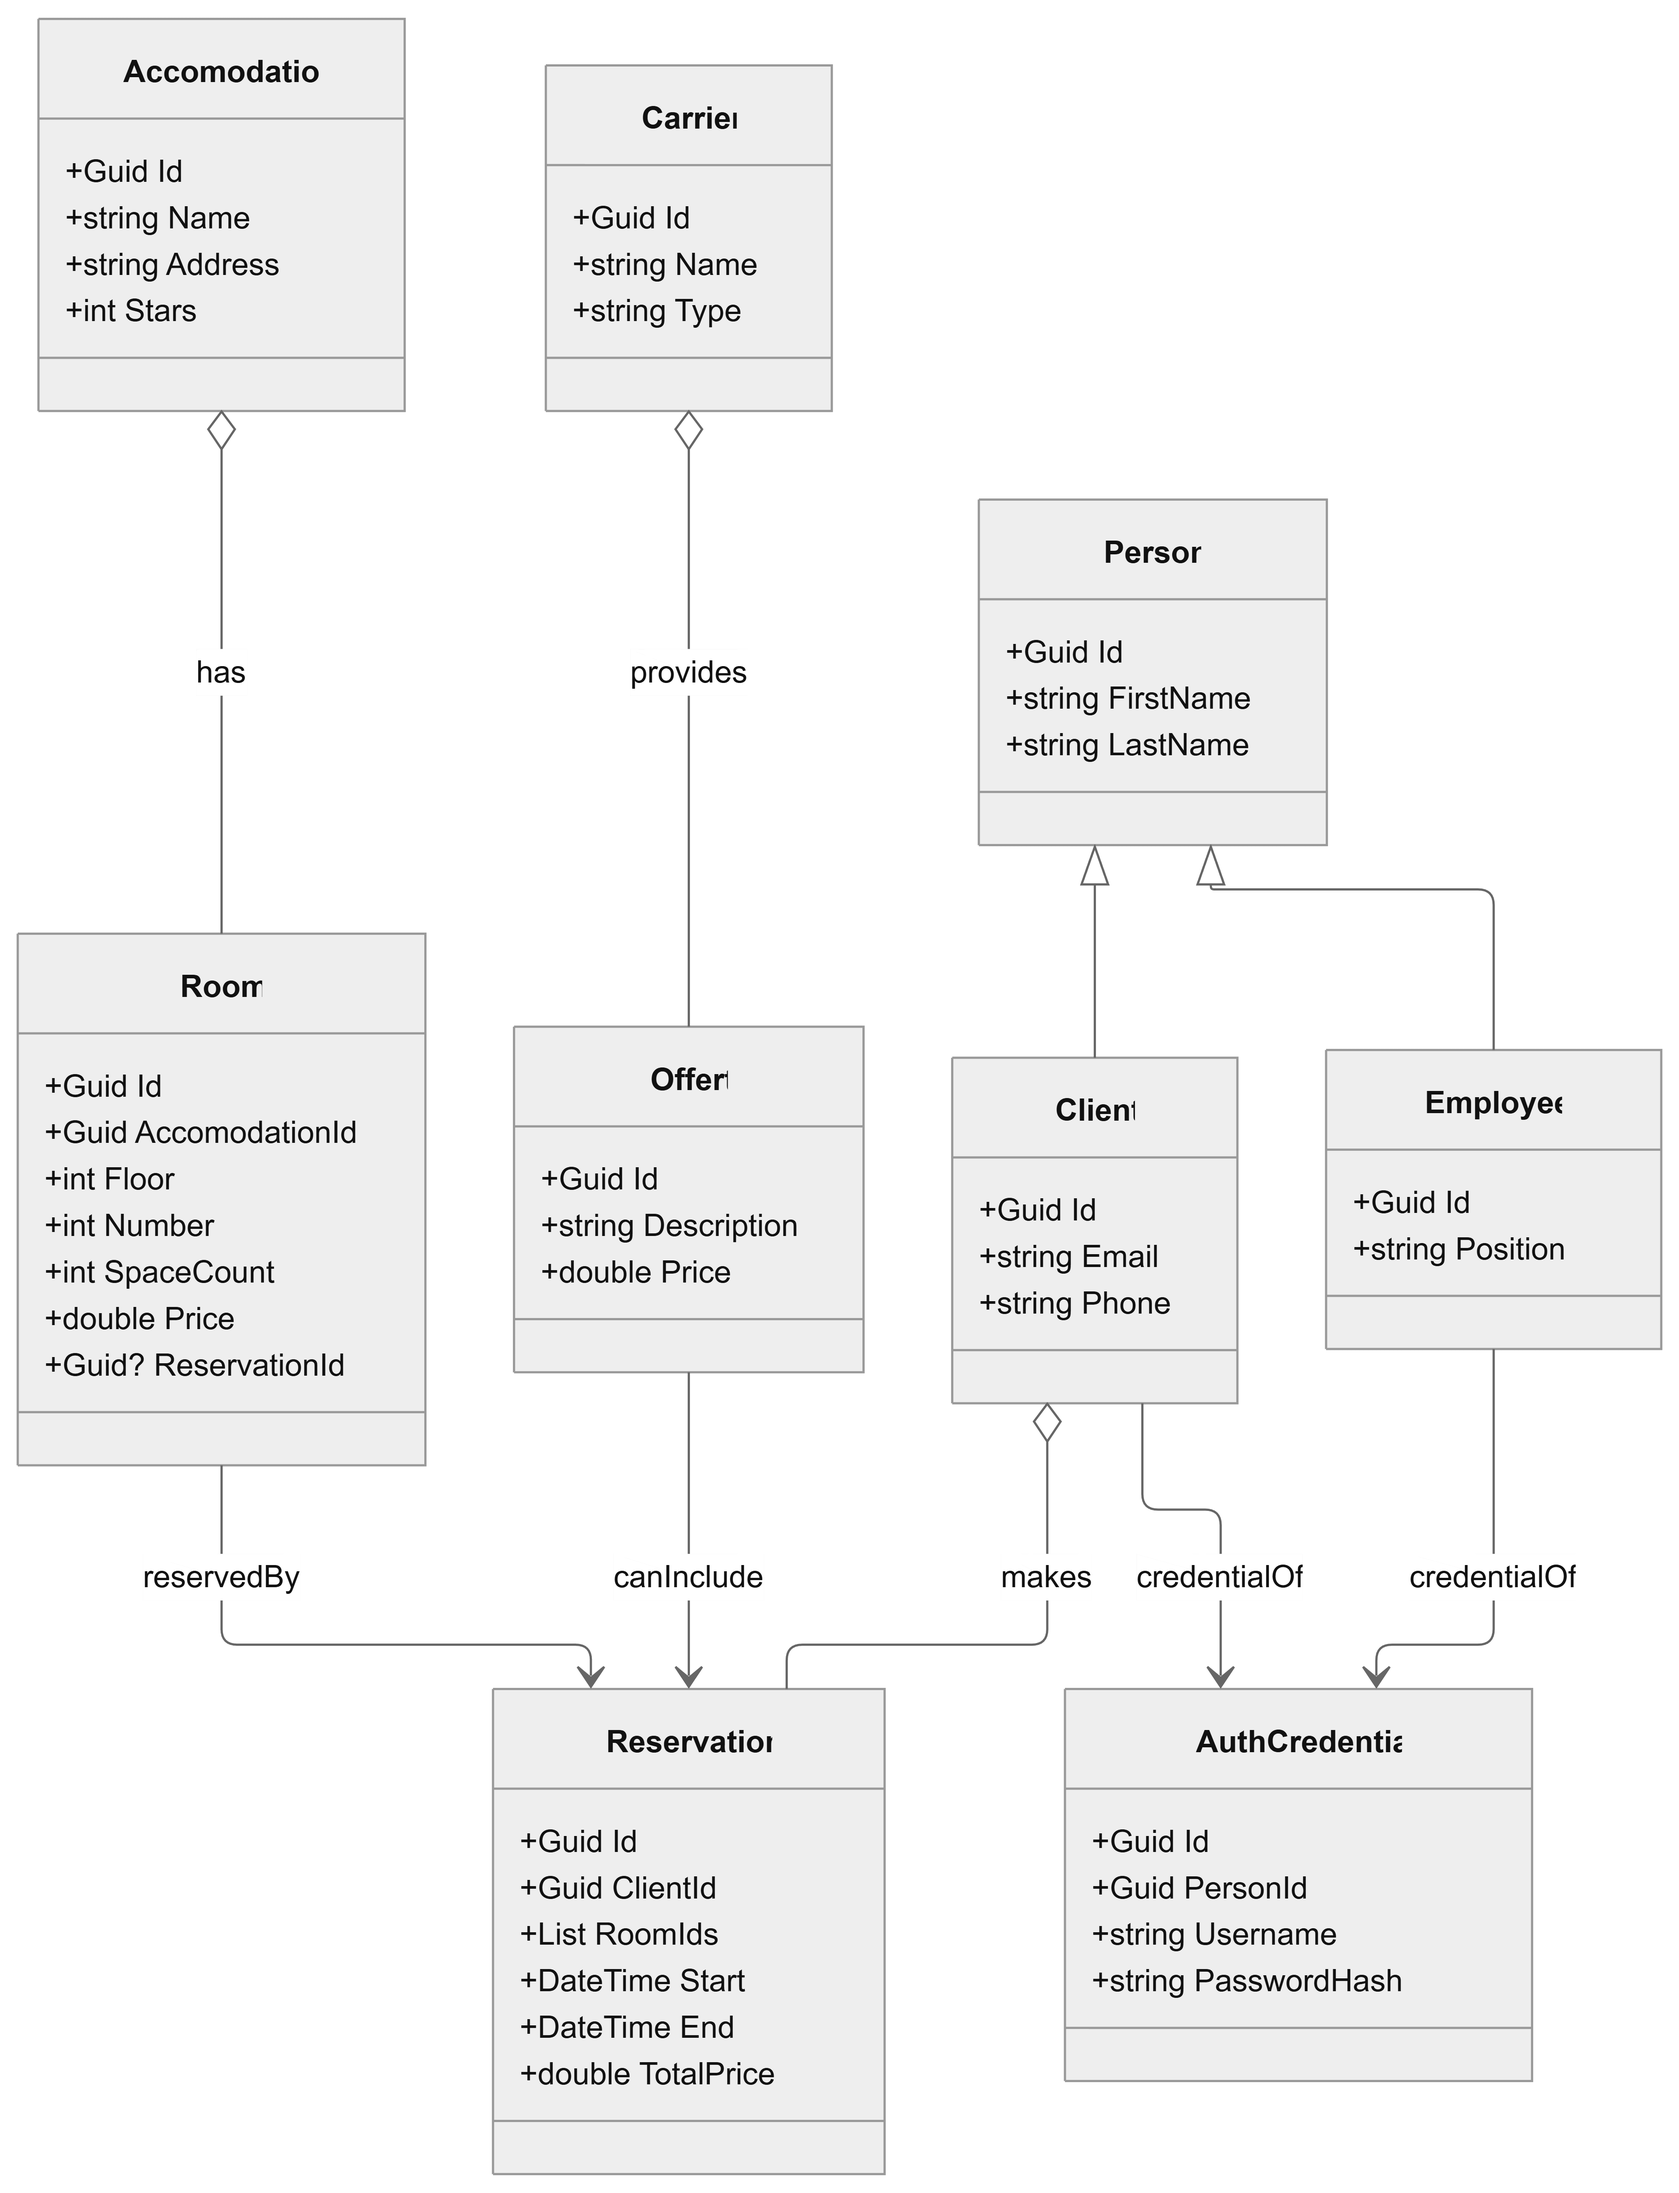
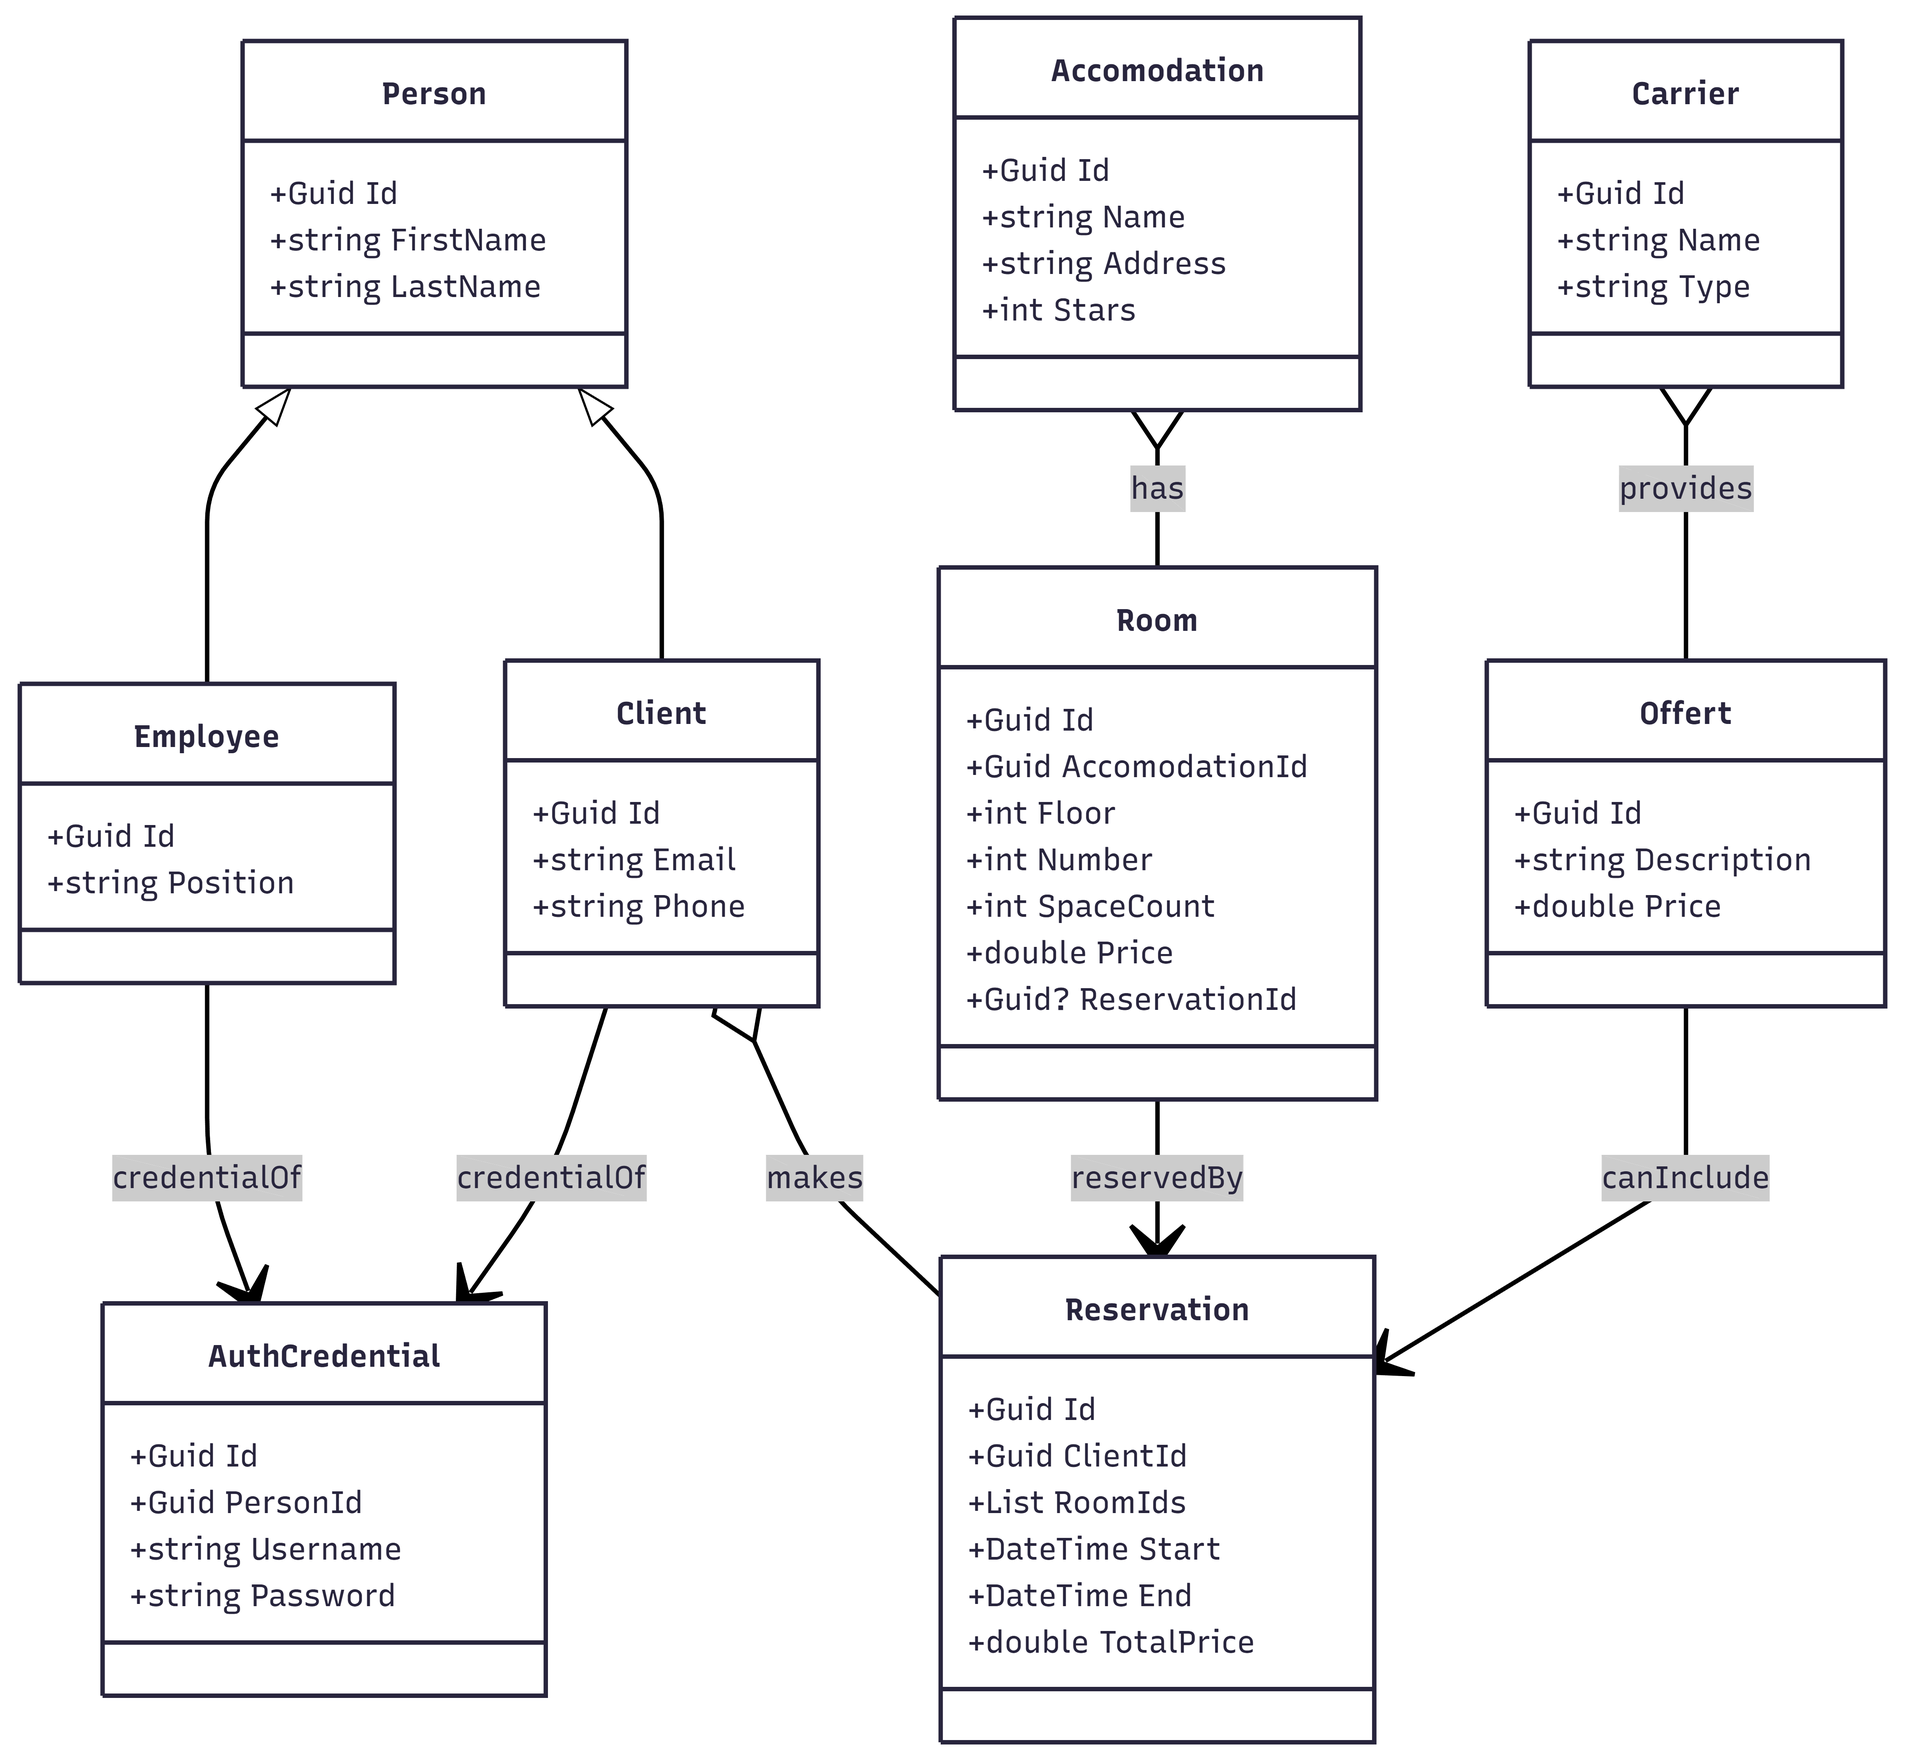
add diagram and same style for every project

diff --git a/src/pages/projects/.net/travel-agency-app/TravelAgencyApp.tsx b/src/pages/projects/.net/travel-agency-app/TravelAgencyApp.tsx
@@ -1,6 +1,12 @@
+import PageSectionName from './../../../../components/content/page-section/Section'
+import PageTitle from './../../../../components/content/title/Title'
+import PageLinkToContent from './../../../../components/content/link-to-content-page/Link'
+import PageContent from './../../../../components/content/content/Content'
+
 import Image from './../../../../components/video/Image'
 
 import './../../style/style.css'
+// import './../../../games/style/style.css'
 
 const TravelAgencyApp = () => {
 
@@ -8,7 +14,22 @@ const TravelAgencyApp = () => {
 
     return (
     <>
-        <div className='project-image-container' ><Image src={diagram_path} /></div>
+        <PageSectionName text={["Projects", ".NET"]}/>
+        <PageTitle text={"Travel Agency App"} />
+        <PageLinkToContent link={"https://github.com/MaksChojniak/TravelAgencySystem/tree/main"}>https://github.com/TravelAgencyApp/</PageLinkToContent>
+        <PageContent>
+            <div className='project-container'>
+                
+                <div className='project-section'>
+                    <div className='games-section-title'>UML Class Diagram</div>
+                    <div>
+
+                    </div>
+                    <div className='project-image-container' ><Image src={diagram_path} /></div>
+                </div>
+            
+            </div>
+        </PageContent>
     </>
     );
 }

diff --git a/src/pages/projects/style/style.css b/src/pages/projects/style/style.css
@@ -1,14 +1,49 @@
+.project-container{
+    display: flex;
+    flex-direction: column;
 
-/* .project-section{
+    gap: 2.5rem;
+}
+
+
+.project-section{
     display: flex;
     flex-direction: column;
 
     gap: 0.5rem;
-} */
+}
+
+.project-section-title{
+    display: flex;
+
+    align-items: center;
+
+    font-size: 1.4rem;
+    font-weight: 550;
+
+    color: var(--font0-selected-color);
+}
+
+.project-title-icon{
+    display: flex;
+    margin-right: 0.5rem;
+}
+
 
 .project-image-container{
     margin: 0 auto;
 
-    width: 60%;
+    width:  50%;
     aspect-ratio: 1/1;
+}
+
+
+@media (max-width: 768px){
+    .project-image-container{
+        width: 85%;
+    }
+
+    .project-section-title{
+        font-size: 1.2rem;
+    }
 }

diff --git a/src/pages/projects/python/numerical-algorithms/DiscreteMethodsForSolvingDiff.tsx b/src/pages/projects/python/numerical-algorithms/DiscreteMethodsForSolvingDiff.tsx
@@ -3,7 +3,7 @@ import PageTitle from './../../../../components/content/title/Title'
 import PageLinkToContent from './../../../../components/content/link-to-content-page/Link'
 import PageContent from './../../../../components/content/content/Content'
 
-import './style/NumericalAlgorithms.css'
+import './../../style/style.css'
 
 const DiscreteMethodsForSolvingDiff = () => {
   return (

diff --git a/src/pages/projects/python/numerical-algorithms/ApproximationMethods.tsx b/src/pages/projects/python/numerical-algorithms/ApproximationMethods.tsx
@@ -3,7 +3,7 @@ import PageTitle from './../../../../components/content/title/Title'
 import PageLinkToContent from './../../../../components/content/link-to-content-page/Link'
 import PageContent from './../../../../components/content/content/Content'
 
-import './style/NumericalAlgorithms.css'
+import './../../style/style.css'
 
 const ApproximationMethods = () => {
   return (

diff --git a/src/pages/projects/python/numerical-algorithms/InterpolationMethods.tsx b/src/pages/projects/python/numerical-algorithms/InterpolationMethods.tsx
@@ -3,7 +3,7 @@ import PageTitle from './../../../../components/content/title/Title'
 import PageLinkToContent from './../../../../components/content/link-to-content-page/Link'
 import PageContent from './../../../../components/content/content/Content'
 
-import './style/NumericalAlgorithms.css'
+import './../../style/style.css'
 
 const InterpolationMethods = () => {
   return (

diff --git a/src/pages/projects/python/numerical-algorithms/ApproximateSolution.tsx b/src/pages/projects/python/numerical-algorithms/ApproximateSolution.tsx
@@ -3,7 +3,7 @@ import PageTitle from './../../../../components/content/title/Title'
 import PageLinkToContent from './../../../../components/content/link-to-content-page/Link'
 import PageContent from './../../../../components/content/content/Content'
 
-import './style/NumericalAlgorithms.css'
+import './../../style/style.css'
 
 const ApproximateSolution = () => {
   return (

diff --git a/src/pages/projects/python/numerical-algorithms/IntegrationMethods.tsx b/src/pages/projects/python/numerical-algorithms/IntegrationMethods.tsx
@@ -3,7 +3,7 @@ import PageTitle from './../../../../components/content/title/Title'
 import PageLinkToContent from './../../../../components/content/link-to-content-page/Link'
 import PageContent from './../../../../components/content/content/Content'
 
-import './style/NumericalAlgorithms.css'
+import './../../style/style.css'
 
 const IntegrationMethods = () => {
   return (

diff --git a/src/pages/projects/python/numerical-algorithms/IterativeMethods.tsx b/src/pages/projects/python/numerical-algorithms/IterativeMethods.tsx
@@ -3,7 +3,7 @@ import PageTitle from './../../../../components/content/title/Title'
 import PageLinkToContent from './../../../../components/content/link-to-content-page/Link'
 import PageContent from './../../../../components/content/content/Content'
 
-import './style/NumericalAlgorithms.css'
+import './../../style/style.css'
 
 const IterativeMethods = () => {
   return (

diff --git a/src/pages/projects/python/numerical-algorithms/MatrixOperations.tsx b/src/pages/projects/python/numerical-algorithms/MatrixOperations.tsx
@@ -3,7 +3,7 @@ import PageTitle from './../../../../components/content/title/Title'
 import PageLinkToContent from './../../../../components/content/link-to-content-page/Link'
 import PageContent from './../../../../components/content/content/Content'
 
-import './style/NumericalAlgorithms.css'
+import './../../style/style.css'
 
 const MatrixOperations = () => {
   return (

diff --git a/src/pages/projects/python/numerical-algorithms/ExactMethods.tsx b/src/pages/projects/python/numerical-algorithms/ExactMethods.tsx
@@ -3,7 +3,7 @@ import PageTitle from './../../../../components/content/title/Title'
 import PageLinkToContent from './../../../../components/content/link-to-content-page/Link'
 import PageContent from './../../../../components/content/content/Content'
 
-import './style/NumericalAlgorithms.css'
+import './../../style/style.css'
 
 const ExactMethods = () => {
   return (
